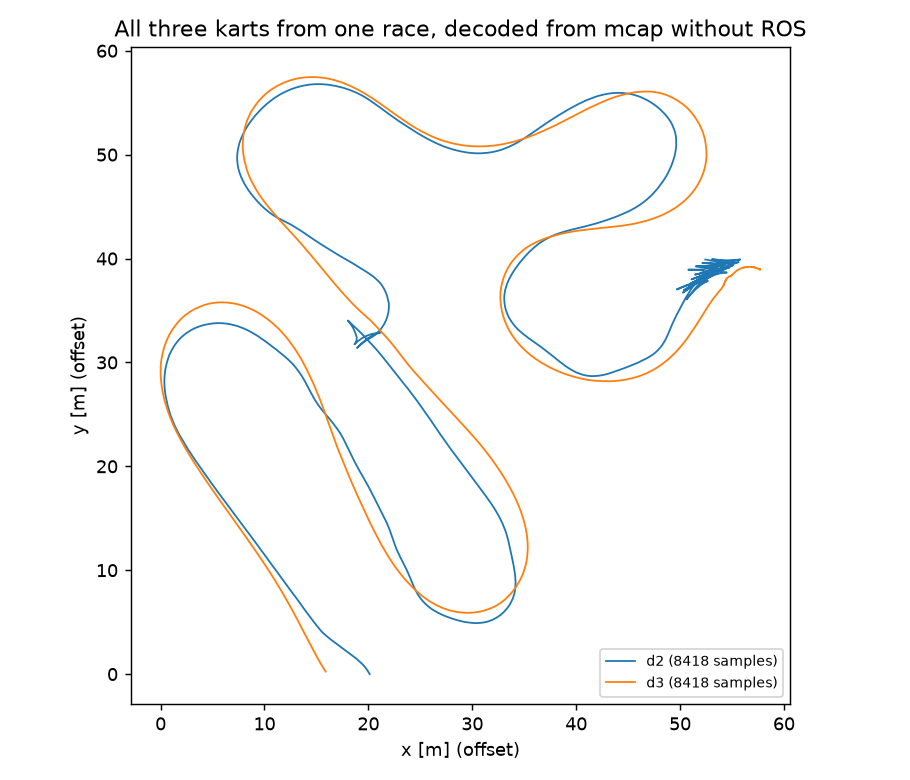
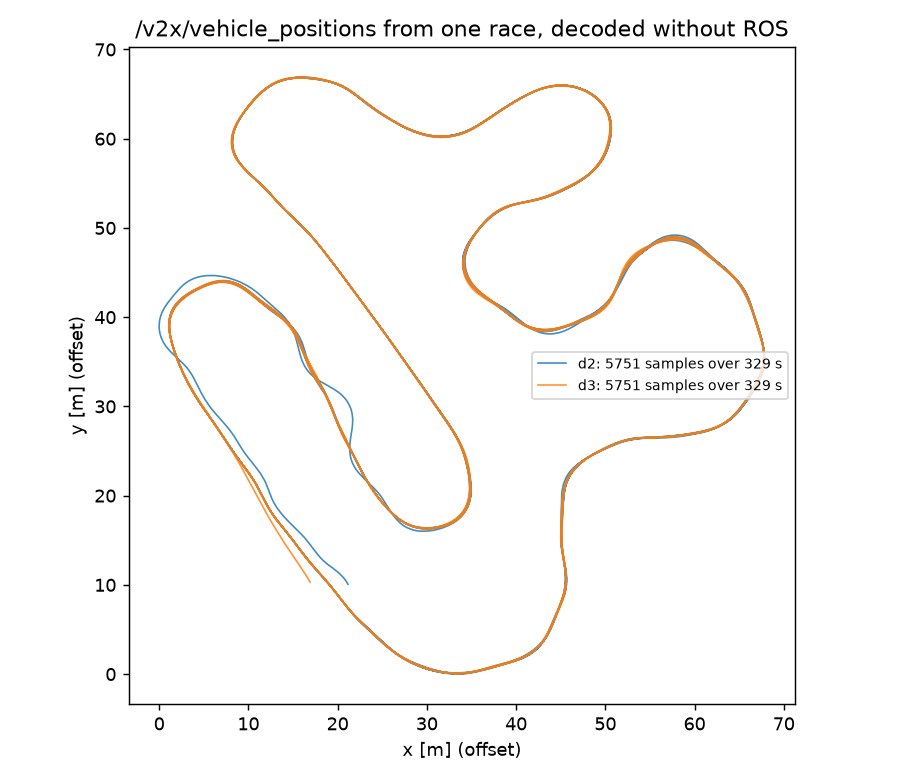
feat: publish the mcap-without-ROS article

diff --git a/articles/read-mcap-without-ros-v2x.md b/articles/read-mcap-without-ros-v2x.md
@@ -1,0 +1,155 @@
+---
+title: "ROS なしで rosbag（mcap）を読む: V2X の位置配列を CDR から手でデコードする"
+emoji: "📦"
+type: "tech"
+topics: ["ros2", "python", "rosbag", "mcap", "aichallenge"]
+published: true
+---
+
+Team Hayes（Ajayaditya Lokchandra, Nithisha Venkatesh）です。自動運転AIチャレンジ2026 のレースのログ（rosbag, mcap 形式）から、他のカートの位置（V2X）を ROS なしで取り出す方法をまとめます。24 MB のログが 0.55 秒で CSV になります。
+
+英語版は後半にあります。 / English version below.
+
+## なぜ ROS なしで読みたいのか
+
+レースのログからトピックを 1 つ見たいだけでも、普通は ROS 2 と、そのメッセージ型のパッケージが必要です。V2X のメッセージ型（`V2XVehiclePositionArray`）はスターターキット独自のもので、pip では入りません。手元のノート PC で、Docker も ROS も起動せずに見たい、というのが出発点でした。
+
+実際には、mcap ファイルは「メッセージのバイト列を並べた入れ物」で、中身のバイト列は CDR という単純な形式です。形式さえ分かれば、Python の標準ライブラリ（`struct`）で読めます。
+
+## メッセージの形
+
+`/v2x/vehicle_positions` のメッセージは次の構造です。
+
+```
+V2XVehiclePositionArray
+  std_msgs/Header       header      (int32 sec, uint32 nanosec, string frame_id)
+  V2XVehiclePosition[]  vehicles    (uint32 の個数、続いてその数だけ要素)
+    std_msgs/Header       header
+    string                vehicle_id
+    geometry_msgs/Point   position    (float64 x, y, z)
+    geometry_msgs/Vector3 covariance  (float64 x, y, z)
+```
+
+入っているのは**他のカートの位置だけ**で、向きや速度はありません。速度が必要なら、位置の差分から自分で求めます。
+
+## CDR の 2 つの落とし穴
+
+1. **アラインメント**: 各値は、本体の先頭（最初の 4 バイトのヘッダの後）から数えて、自分のサイズの倍数の位置に置かれます。`float64` なら 8 の倍数です。直前が文字列だと、間に 0〜7 バイトの詰め物が入ります。
+2. **文字列**: 先頭の `uint32` は長さですが、**末尾の NUL を含んだ長さ**です。
+
+どちらも、少し間違えると「数字は出るが全部おかしい」状態になります。
+
+## デコーダ（約 30 行）
+
+```python
+import struct
+
+class CDR:
+    """最小限のリトルエンディアン CDR リーダー（アラインメント付き）"""
+    def __init__(self, buf):
+        self.b, self.o, self.base = buf, 4, 4   # 最初の 4 バイトはエンコーディングのヘッダ
+    def _align(self, n):
+        self.o += (-(self.o - self.base)) % n   # 本体の先頭から n の倍数へ
+    def u32(self):
+        self._align(4); v = struct.unpack_from("<I", self.b, self.o)[0]; self.o += 4; return v
+    def i32(self):
+        self._align(4); v = struct.unpack_from("<i", self.b, self.o)[0]; self.o += 4; return v
+    def f64(self):
+        self._align(8); v = struct.unpack_from("<d", self.b, self.o)[0]; self.o += 8; return v
+    def string(self):
+        n = self.u32()                           # NUL を含む長さ
+        s = self.b[self.o:self.o + n - 1].decode(); self.o += n; return s
+    def header(self):
+        sec, nsec = self.i32(), self.u32(); frame = self.string()
+        return sec + nsec * 1e-9, frame
+
+def decode_array(buf):
+    c = CDR(buf)
+    t_msg, _ = c.header()
+    out = []
+    for _ in range(c.u32()):
+        t, _ = c.header()
+        vid = c.string()
+        x, y, z = c.f64(), c.f64(), c.f64()
+        sx, sy, sz = c.f64(), c.f64(), c.f64()
+        out.append((vid, t, x, y, z, sx, sy, sz))
+    return t_msg, out
+```
+
+mcap の読み出しには `mcap` パッケージ（ROS 不要）を使います。
+
+```python
+from mcap.reader import make_reader
+with open("race.mcap", "rb") as f:
+    for schema, channel, msg in make_reader(f).iter_messages(topics=["/v2x/vehicle_positions"]):
+        t_msg, vehicles = decode_array(msg.data)
+```
+
+アラインメントの規則を固定するために、自分でメッセージを 1 つ組み立てて（エンコードして）、デコード結果と比べるセルフテストも入れています。
+
+## 実際のレースで試す
+
+自分たちのローカル環境で走らせた 3 台レース（3 台とも自チームのビルド、各 6 周、ペナルティ 0）のログで試しました。
+
+- ログ 24 MB を 0.55 秒でデコード
+- 他の 2 台それぞれ 5,751 サンプル、328.9 秒分
+- サンプル間隔の中央値 50 ms（20 Hz）。欠けも含めた平均は 17.5 Hz
+- 位置の分散（covariance）は 0.005 で一定
+
+![1 レース分の V2X 位置を ROS なしでデコードしたもの](https://raw.githubusercontent.com/theCodeForgerHQ/zenn-content/main/images/m6/fig1-paths.png)
+
+位置が 20 Hz で取れれば、相手との距離の推移、どこで詰まったか、ペナルティ（速度が 5 km/h に固定される区間）の検出などが、ROS なしでできます。
+
+## ツールとして公開しています
+
+このデコーダは、Team Hayes のツール集 aichallenge-toolkit の `bagkit.v2x` として公開しています（Apache-2.0）。
+
+```bash
+git clone https://github.com/theCodeForgerHQ/aichallenge-toolkit && cd aichallenge-toolkit
+pip install -e ".[bag]"
+python -m bagkit.v2x race.mcap --out-dir out/     # 車ごとの CSV と統計の JSON
+python -m bagkit.v2x --selftest                    # アラインメント規則の確認
+```
+
+https://github.com/theCodeForgerHQ/aichallenge-toolkit
+
+## 作り方について
+
+デコーダとこの記事の作成には AI コーディングエージェントを使いました。数値は、上のログに対して実際にツールを実行した結果です。セルフテストでエンコードとデコードの往復を確認しています。
+
+---
+
+## English
+
+Team Hayes (Ajayaditya Lokchandra, Nithisha Venkatesh). How to pull the other karts' positions (V2X) out of a JSAE AI Challenge 2026 race log (rosbag, mcap format) without ROS. A 24 MB log becomes CSV in 0.55 seconds.
+
+### Why read it without ROS
+
+Looking at even one topic in a race log normally needs ROS 2 plus the message-type packages. The V2X type (`V2XVehiclePositionArray`) is specific to the starter kit and is not on pip. We wanted to look at it on a laptop without starting Docker or ROS. An mcap file is a container of message byte strings, and those bytes are plain CDR. Once you know the layout, Python's standard `struct` module can read them.
+
+### The message layout
+
+See the structure above: a header, then a `uint32` count and that many vehicles, each with its own header, a `vehicle_id` string, a position (three `float64`) and a covariance (three `float64`). It carries **only the other karts' positions**: no heading and no speed. If you need speed, difference the positions yourself.
+
+### Two CDR traps
+
+1. **Alignment**: each value sits at a multiple of its own size, counted from the start of the body (after the first 4-byte header). A `float64` goes on a multiple of 8, so after a string there can be 0 to 7 bytes of padding.
+2. **Strings**: the leading `uint32` is the length **including the trailing NUL**.
+
+Get either slightly wrong and you get numbers that look plausible and are all wrong.
+
+### The decoder (about 30 lines)
+
+The code above is the whole decoder: a small CDR reader that aligns each read relative to the body start, and `decode_array`, which walks the message. The `mcap` package (no ROS needed) iterates the messages. A self-test builds one message by hand, decodes it and compares, so the alignment rules stay pinned.
+
+### On a real race
+
+We ran it on a 3-car race from our own local setup (all three karts are our own builds; 6 laps each, no penalties): the 24 MB log decodes in 0.55 s; each of the other two karts has 5,751 samples over 328.9 s; the median sample interval is 50 ms (20 Hz), and 17.5 Hz on average including gaps; the position covariance is a constant 0.005 (figure above). With positions at 20 Hz you can follow the gap to a rival, see where a kart got stuck, or detect penalties (stretches where speed is capped at 5 km/h), all without ROS.
+
+### Released as a tool
+
+The decoder is `bagkit.v2x` in Team Hayes' aichallenge-toolkit (Apache-2.0): `pip install -e ".[bag]"`, then `python -m bagkit.v2x race.mcap --out-dir out/` for a per-car CSV and a JSON of statistics, and `python -m bagkit.v2x --selftest` to check the alignment rules. https://github.com/theCodeForgerHQ/aichallenge-toolkit
+
+### How this was made
+
+We used AI coding agents to build the decoder and draft this article. The numbers are from actually running the tool on the log above, and the self-test checks the encode/decode round trip.
